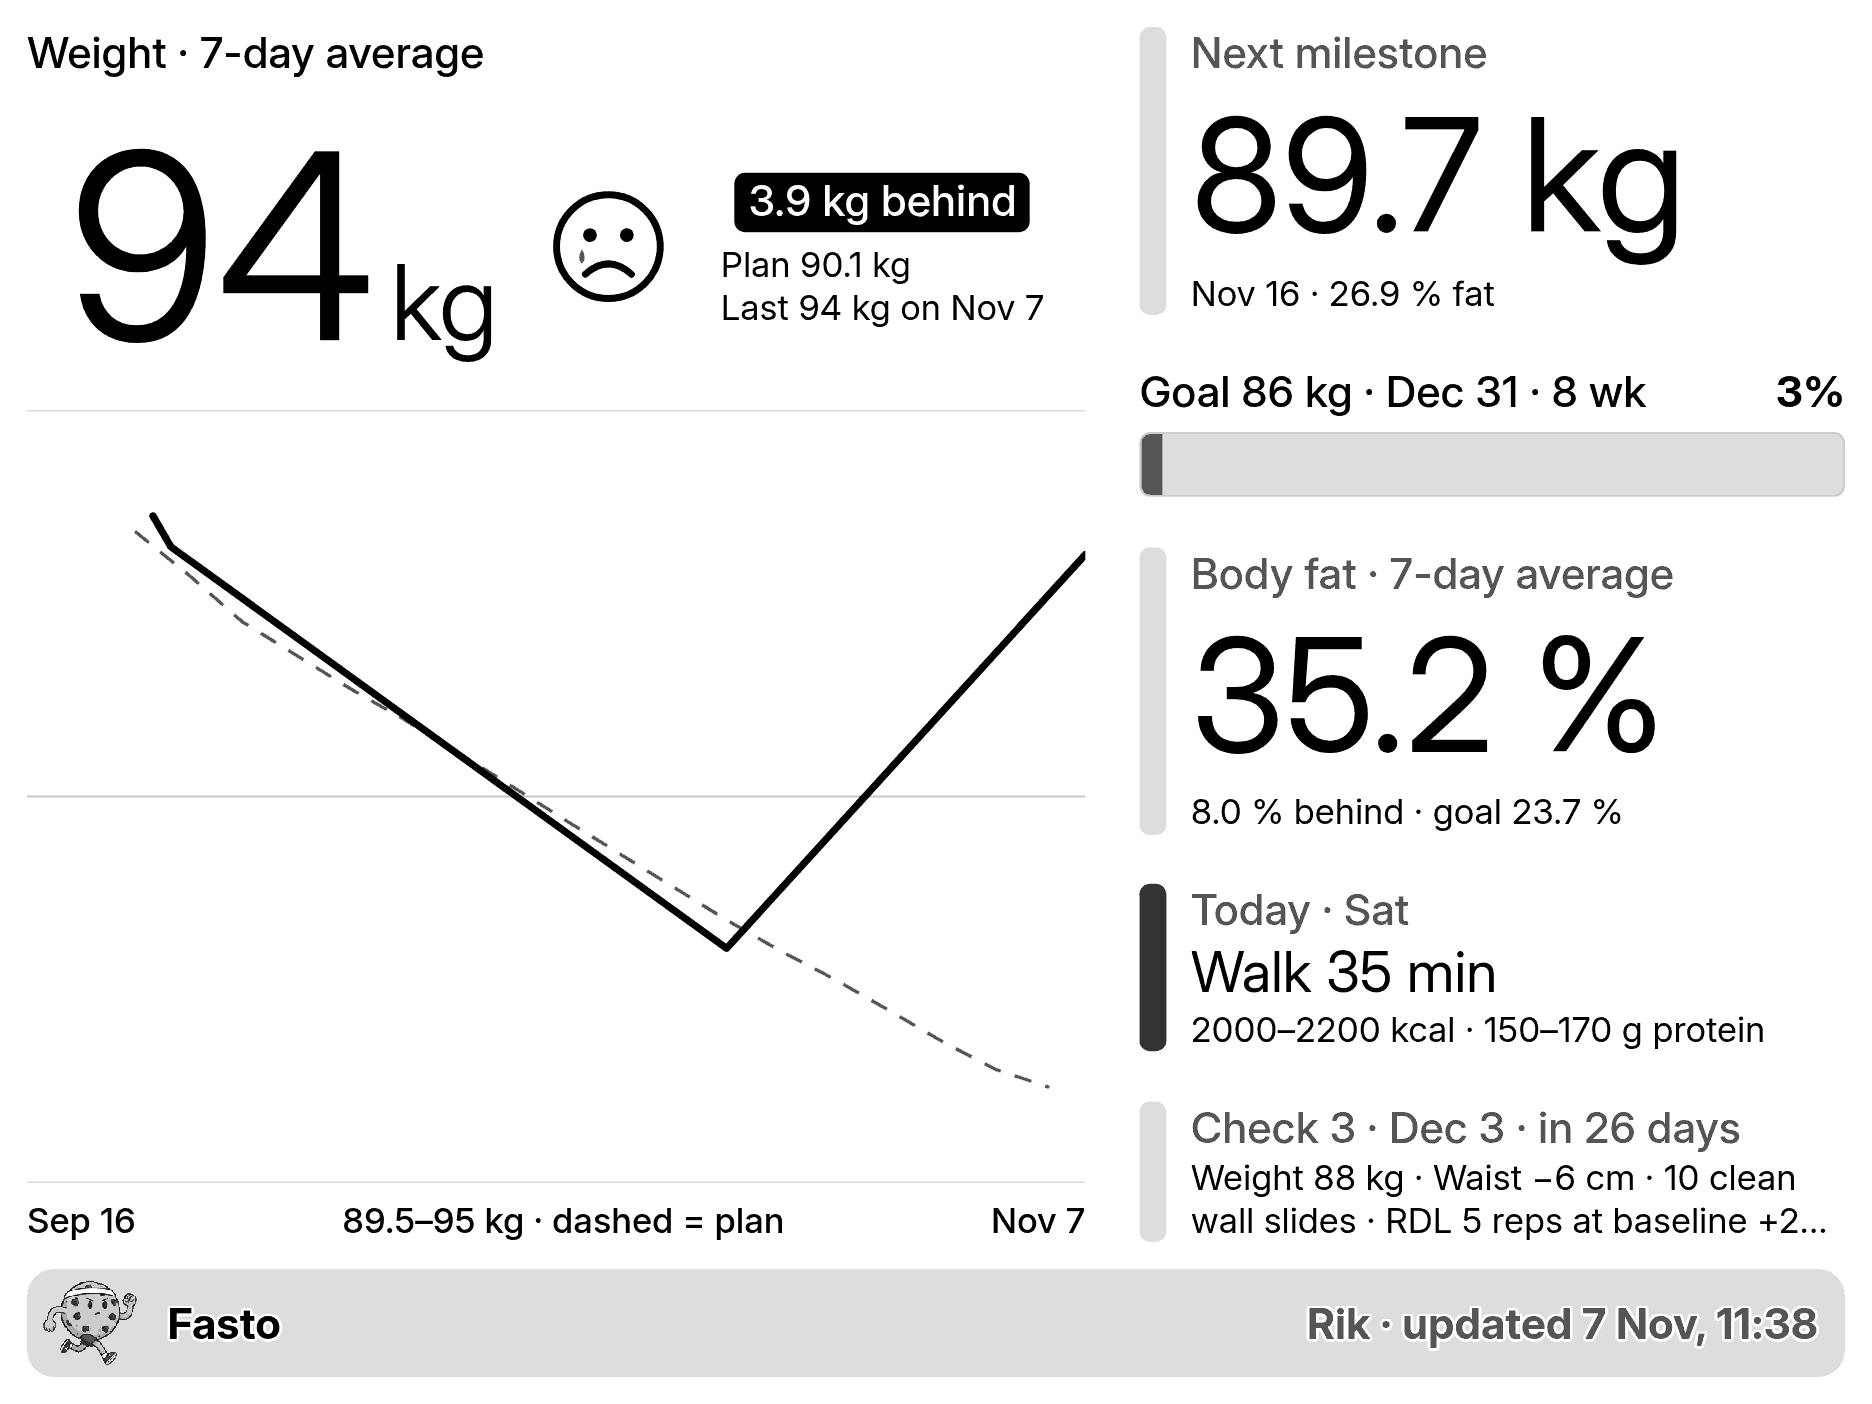
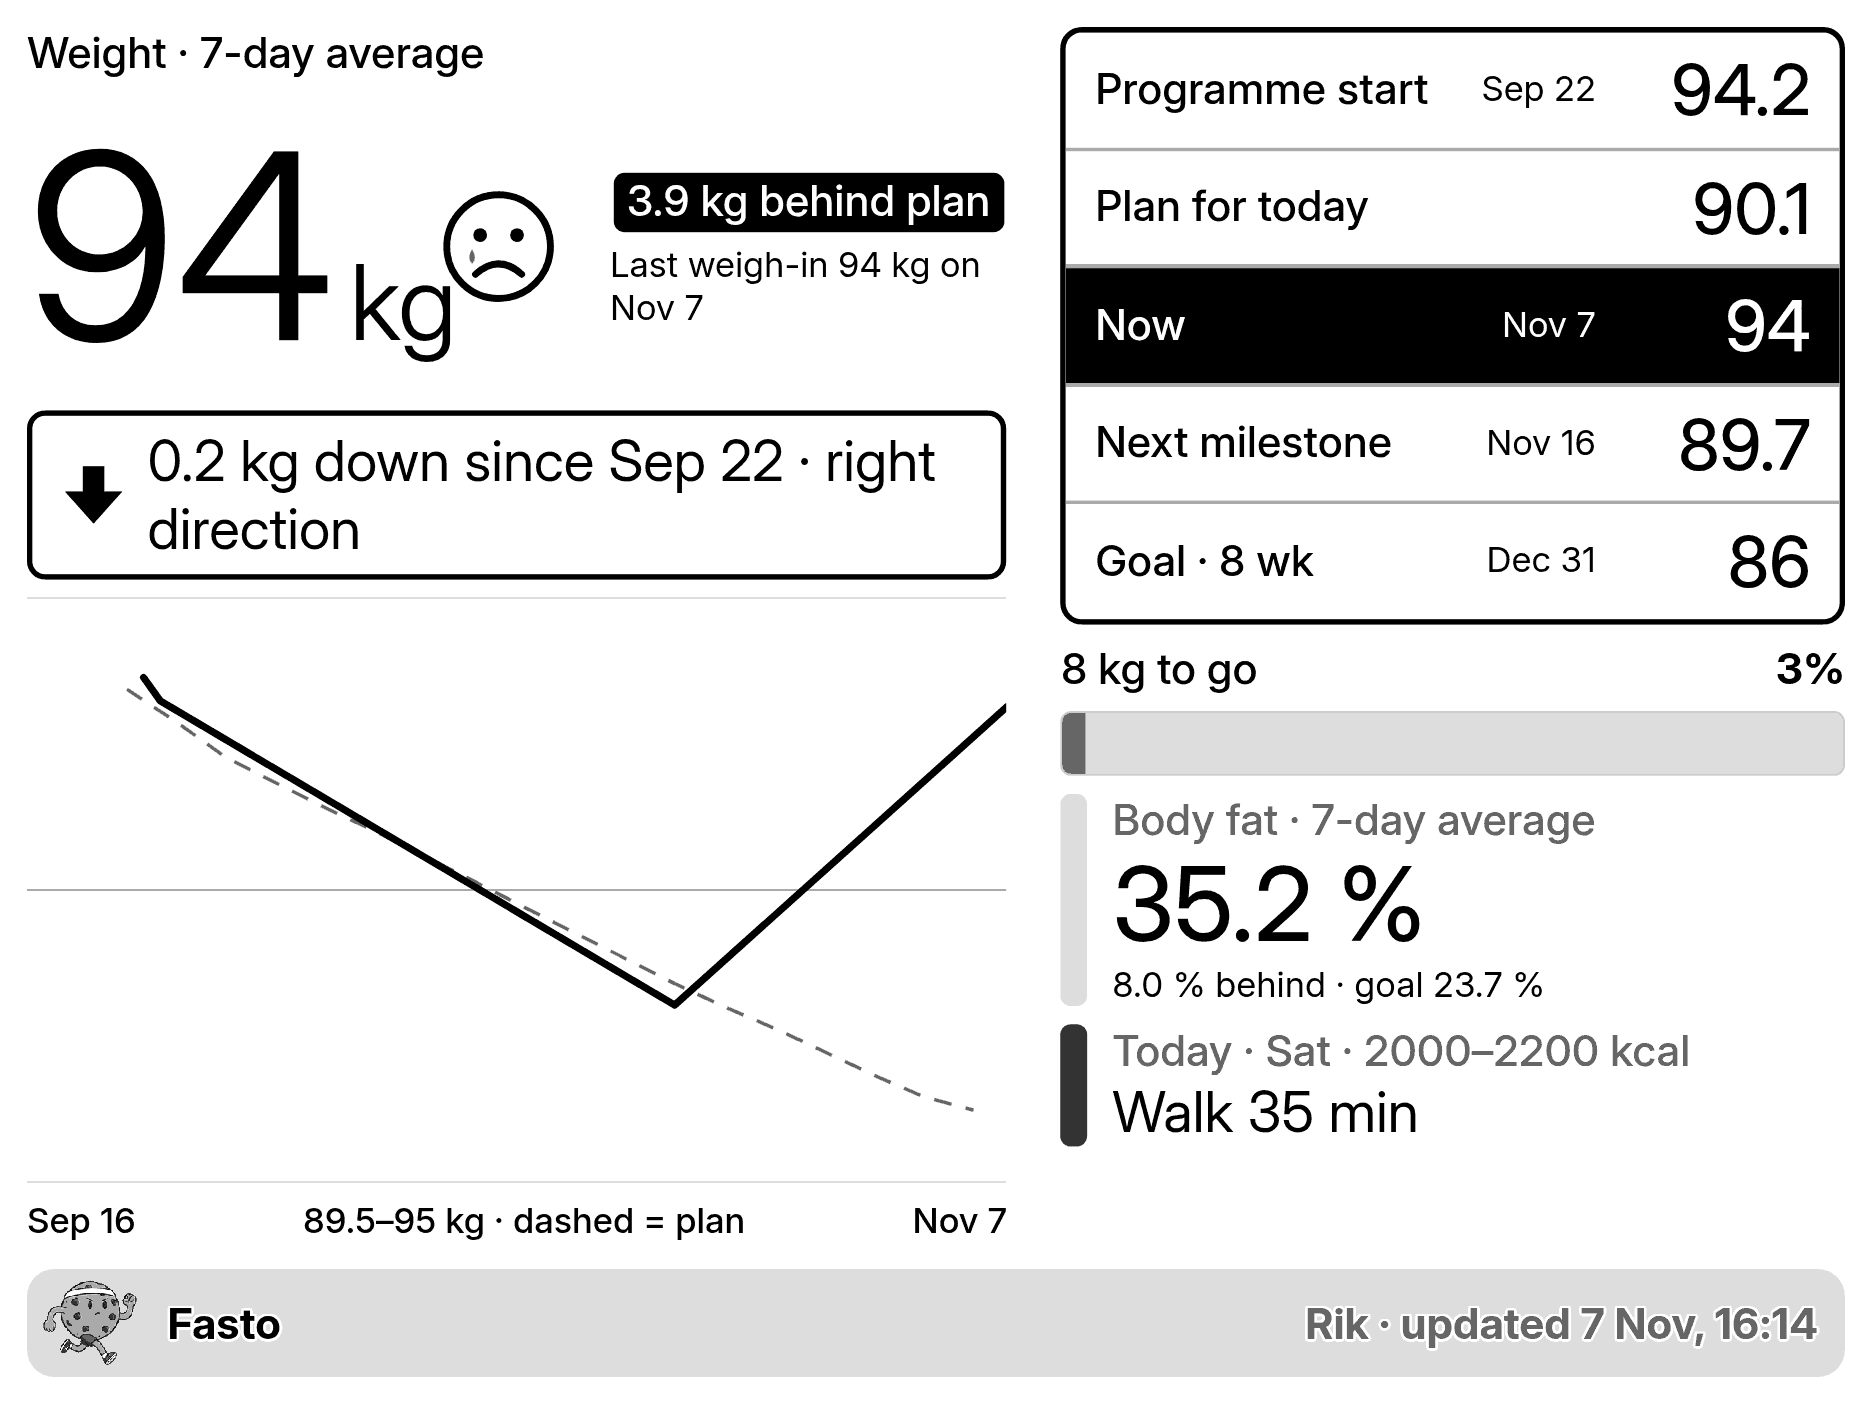
TRMNL: show the plan from start to goal and the direction of travel
The full layout gets a table with the programme start, today's plan
value, the current 7-day average, the next milestone and the goal, plus
a box saying whether the weight is moving towards the goal or away from
it. The payload now includes the programme's start date.

diff --git a/server/trmnl.js b/server/trmnl.js
@@ -144,6 +144,7 @@ function metricSummary(series, goals, field, unit) {
     targetDate: shortDate(u?.targetDate),
     weeksLeft,
     start: round(start),
+    startDate: start !== null ? shortDate(goals.goalPeriod.startDate) : null,
     progressPct,
   };
 }
